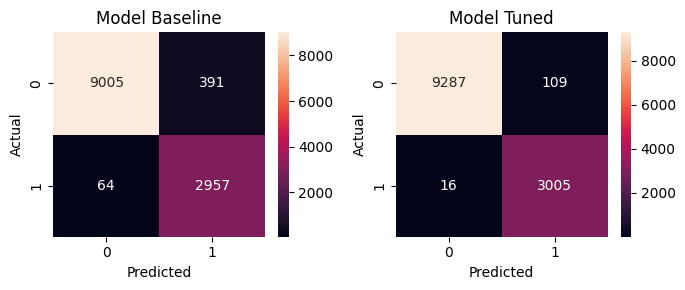
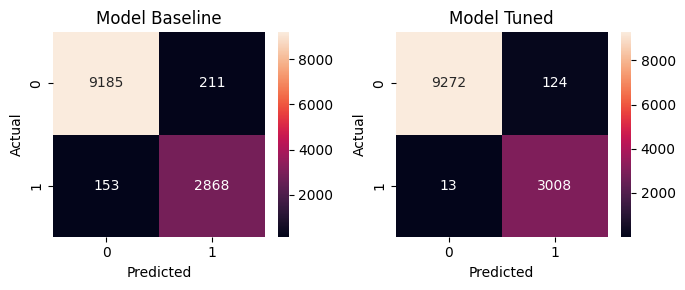
delete pic, conf matrix and try pic

diff --git a/laporan.md b/laporan.md
@@ -10,7 +10,7 @@ Dalam aspek efisiensi energi, deteksi hunian dapat membantu menghemat energi seb
 
 Dalam aspek keamanan, deteksi hunian dapat dimanfaatkan untuk penyelamatan dari bencana dan deteksi intrusi. Jika suatu gedung dengan sistem deteksi hunian mengalami bencana, misalnya bencana alam atau serangan militer, informasi tentang hunian gedung bisa didapat sebelum terjadi bencana[^2]. Oleh karenanya, penting untuk menentukan cara mendeteksi hunian dari sebuah bangunan dengan efektif.
 
-Berbagai teknik telah diusulkan untuk mengatasi masalah ini. Teknik yang populer adalah dengan menggunakan sensor passive infrared (PIR)[^3] dan deteksi berbasis ultrasonic[^4]. Pendekatan lainnya meliputi menggunakan Wi-Fi untuk mendeteksi perangkat pada penghuni ruangan[^2] dan menggunakan backscattered light sensing, yang mendeteksi pantulan cahaya dari penghuni ruangan[^5]. Metode dengan menggunakan machine learning juga banyak diterapkan, misalnya dengan menggunakan model ML statistik pada data sensor[^6] maupun menggunakan kamera CCTV disertai algoritma deep learning[^7].
+Berbagai teknik telah diusulkan untuk mengatasi masalah ini. Teknik yang populer adalah dengan menggunakan sensor passive infrared (PIR)[^3] dan deteksi berbasis ultrasonic[^4]. Pendekatan lainnya meliputi menggunakan Wi-Fi untuk mendeteksi perangkat pada penghuni ruangan[^2] dan menggunakan backscattered light sensing, yang mendeteksi pantulan cahaya dari lampu yang dipantulkan oleh penghuni ruangan[^5]. Metode dengan menggunakan machine learning juga banyak diterapkan, misalnya dengan menggunakan model ML statistik pada data sensor[^6] maupun menggunakan kamera CCTV yang disertai algoritma deep learning[^7].
 
 [^1]: K. Sun, Q. Zhao, and J. Zou, “A review of building occupancy measurement systems,” Energy Build., vol. 216, p. 109965, Jun. 2020, doi: 10.1016/j.enbuild.2020.109965.
 [^2]: T. Fryza, T. Bravenec, and Z. Kohl, “Security and Reliability of Room Occupancy Detection Using Probe Requests in Smart Buildings,” in 2023 33rd International Conference Radioelektronika (RADIOELEKTRONIKA), Pardubice, Czech Republic: IEEE, Apr. 2023, pp. 1–6. doi: 10.1109/RADIOELEKTRONIKA57919.2023.10109085.
@@ -78,7 +78,7 @@ Berikut adalah hasil analisis dari data tersebut:
     
     _Gambar 3.1: Plot distribusi kelas_
 
-    Dari diagram ini, terlihat bahwa ada sekitar 16.000 data yang termasuk ke kelas 0 (Not Occupied), sementara hanya sekitar 4.000 data yang termasuk ke kelas 1 (Occupied). Ini menunjukkan bahwa dalam dataset ini, ada lebih banyak data Not Occupied dibandingkan dengan yang Occupied, dengan perbandingan sekitar 4:1. Informasi ini penting karena dapat mempengaruhi bagaimana model dilatih dan bagaimana performanya pada data yang tidak seimbang.
+    Pada gambar 3.1, terlihat bahwa ada sekitar 16.000 data yang termasuk ke kelas 0 (Not Occupied), sementara hanya sekitar 4.000 data yang termasuk ke kelas 1 (Occupied). Ini menunjukkan bahwa dalam dataset ini, ada lebih banyak data Not Occupied dibandingkan dengan yang Occupied, dengan perbandingan sekitar 4:1. Informasi ini penting karena dapat mempengaruhi bagaimana model dilatih dan bagaimana performanya pada data yang tidak seimbang.
 
 2. Plot histogram fitur
 
@@ -297,17 +297,17 @@ Dari diagram diatas, didapat observasi berikut:
 
 - Model Baseline:
 
-    - True Negative (TN): 9005 sampel benar diprediksi sebagai not occupied.
-    - False Positive (FP): 391 sampel salah diprediksi sebagai occupied.
-    - False Negative (FN): 64 sampel salah diprediksi sebagai not occupied.
-    - True Positive (TP): 2957 sampel benar diprediksi sebagai occupied.
+    - True Negative (TN): 9185 sampel benar diprediksi sebagai not occupied.
+    - False Positive (FP): 211 sampel salah diprediksi sebagai occupied.
+    - False Negative (FN): 153 sampel salah diprediksi sebagai not occupied.
+    - True Positive (TP): 2868 sampel benar diprediksi sebagai occupied.
 
 - Model Tuned:
 
-    - True Negative (TN): 9287 sampel benar diprediksi sebagai not occupied.
-    - False Positive (FP): 109 sampel salah diprediksi sebagai occupied.
-    - False Negative (FN): 16 sampel salah diprediksi sebagai not occupied.
-    - True Positive (TP): 3005 sampel benar diprediksi sebagai occupied.
+    - True Negative (TN): 9272 sampel benar diprediksi sebagai not occupied.
+    - False Positive (FP): 124 sampel salah diprediksi sebagai occupied.
+    - False Negative (FN): 13 sampel salah diprediksi sebagai not occupied.
+    - True Positive (TP): 3008 sampel benar diprediksi sebagai occupied.
 
 Dari diagram ini, kita dapat melihat bahwa model yang sudah di-tune memiliki performa yang lebih baik dibandingkan dengan Model Baseline, dengan jumlah kesalahan prediksi yang lebih sedikit. Selain itu, jumlah False Positive cenderung lebih besar daripada jumlah False Negative.
 
